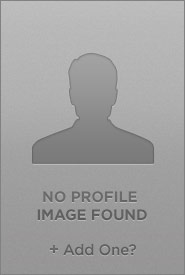
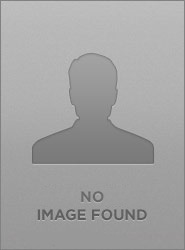
Css actors fini. Debut de requete backbone pour tmdb

diff --git a/js/models/actorModel.js b/js/models/actorModel.js
@@ -6,22 +6,27 @@
 define([
     'underscore',
     'backbone'
-],function(_, Backbone) {
+], function (_, Backbone) {
 
     var ActorModel = Backbone.Model.extend({
         urlRoot: "https://umovie.herokuapp.com/actors",
 
         parse(data) {
-          if (data.results) {
-              return data.results[0];
-          }else {
-              return data;
-          }
+            if (data.results) {
+                return data.results[0];
+            } else {
+                return data;
+            }
         },
 
+        shortenText: function (textToShortent, length) {
+            var newLenght = length || 200;
+            return `${textToShortent.slice(0, newLenght)} ... `;
 
-        defaults:{
-            "urlRoot" : 'https://umovie.herokuapp.com/actors/253584821',
+        },
+
+        defaults: {
+            "urlRoot": 'https://umovie.herokuapp.com/actors/253584821',
             "wrapperTyper": "artist",
             "artistType": "Artist",
             "artistName": "John Sawyer",
@@ -38,7 +43,7 @@ define([
 
 
             //Appel d'api externe
-            var dataBaseUrl =  "https://api.themoviedb.org/3";
+            var dataBaseUrl = "https://api.themoviedb.org/3";
             var dataBaseApiKey = "?api_key=8e2fb63d78986604185e4448ce8fbaad";
             var dataBaseImg = "https://image.tmdb.org/t/p/original";
             var actorName = "&query=" + that.attributes.artistName.split(' ').join('+');
@@ -46,49 +51,55 @@ define([
             $.ajax({
                 type: "GET",
                 url: dataBaseUrl + "/search/person" + dataBaseApiKey + actorName,
-                //url: dataBaseUrl + "/search/person" + dataBaseApiKey + "&query=" + "Brad Hall".split(' ').join('+'),
+                //url: dataBaseUrl + "/search/person" + dataBaseApiKey + "&query=" + "Brad Pitt".split(' ').join('+'),
                 dataType: 'jsonp',
                 jsonCallback: 'test',
                 contentType: 'application/json',
-                success: function(data) {
-
-
-                    var actorInfo = data.results[0];
-                    if(actorInfo) {
-
-                        var newImage;
-                        if(actorInfo.profile_path) {
-                            newImage = dataBaseImg + actorInfo.profile_path;
-                        }
-                        else {
-                            newImage = "url(../../img/actor/noProfile.png";
-                        }
-                        that.attributes.imgActor = newImage;
-
-
-                        if (actorInfo.id) {
-                            $.ajax({
-                                type: "GET",
-                                url: dataBaseUrl + "/person/" + actorInfo.id + dataBaseApiKey,
-                                dataType: "jsonp",
-                                jsonpCallback: 'test',
-                                contentType: 'application/json',
-                                success: function (Data) {
-                                    var newBiography = Data.biography;
-                                    that.attributes.biography = newBiography;
-
-                                }
-
-                            });
-                        }
-                    }
-                    that.attributes.firstAPIDone = true;
-                },
-                error: function() {
+                success: fetchInformationsFromPerson(data),
+                error: function () {
                     that.firstAPIDone = false;
 
                 }
             });
+
+
+        },
+
+        fetchInformationsFromPerson: function (data) {
+
+
+            var actorInfo = data.results[0];
+            if (actorInfo) {
+
+                var newImage;
+                if (actorInfo.profile_path) {
+                    newImage = dataBaseImg + actorInfo.profile_path;
+                }
+                else {
+                    newImage = "url(../../img/actor/noProfile.png";
+                }
+                that.attributes.imgActor = newImage;
+
+
+                if (actorInfo.id) {
+                    $.ajax({
+                        type: "GET",
+                        url: dataBaseUrl + "/person/" + actorInfo.id + dataBaseApiKey,
+                        dataType: "jsonp",
+                        jsonpCallback: 'test',
+                        contentType: 'application/json',
+                        success: function (data) {
+                            console.log(data);
+                            var newBiography = data.biography;
+                            that.attributes.biography = newBiography;
+                            that.set({shortenBio : that.shortenText(newBiography)});
+
+                        }
+
+                    });
+                }
+            }
+            that.attributes.firstAPIDone = true;
         }
 
     });

diff --git a/css/actors.css b/css/actors.css
@@ -1,30 +1,27 @@
-
 .actorThumbnail {
-    /*height: 200px;*/
-    /*margin: 2%  5% ;*/
+
+    max-height: 10%;
+    margin: 2%  5% ;
     display: flex;
     border-bottom: solid;
     border-bottom-color: darkgrey;
-    /*position: relative;*/
+
 }
 .actor-box {
     text-decoration:  none;
     color: inherit;
 }
 
-.thumbnailImg {
+.imageThumbnail {
 
-    height:90%;
-    width: auto;
+
     margin: 0 0 2% 0;
+    width: 25%;
+    height: 50%;
 
 }
 .descriptionThumbnail {
-    /*margin: 1% 0 0 5%;*/
-}
-
-.thumbnailNomArtist {
-
+    margin: 1% 0 0 5%;
 }
 
 .shortBio {
@@ -32,12 +29,54 @@
     min-height: 10%;
     max-height: 10%;
     position: relative;
+    font-size: 100%;
+}
 
-    /*white-space: nowrap;
-    overflow: hidden;
-    position: relative;
-    text-overflow: ellipsis;*/
+.genreActorThumbnail {
+    font-size: 100%;
+}
 
 
+@media screen and (min-width: 640px) {
+    .shortBio{
+        font-size: 150%;
+    }
+    .genreActorThumbnail {
+        font-size: 170%;
+    }
+    .thumbnailNomArtist {
+        font-size: 170%;
+    }
+    .imageThumbnail{
+        height:50%;
+        width: auto;
+    }
+}
 
+
+@media screen and (min-width: 960px) {
+
+    .actorThumbnail {
+
+
+    }
+    .thumbnailNomArtist {
+        font-size: 100%;
+    }
+
+    .imageThumbnail {
+
+
+    }
+    .descriptionThumbnail {
+    }
+
+    .shortBio {
+
+        font-size: 100%;
+    }
+
+    .genreActorThumbnail {
+        font-size: 100%;
+    }
 }

diff --git a/js/templates/actorThumbnail.html b/js/templates/actorThumbnail.html
@@ -1,14 +1,17 @@
+<div class="actorThumbnail">
+    <!--<img class="imageThumbnail" src="url({{imgActor}})"> -->
 
-    <div class="actorThumbnail">
-        <!--<img class="thumbnailImg" src="url({{imgActor}})"> -->
-       <img class="thumbnailImg" src="url(../../img/actor/noProfile.jpg">
-        <div class="descriptionThumbnail">
-            <a class="actor-box" href="#actor/{{artistId}}">
-            <h2 class="thumbnailNomArtist">{{artistName}}</h2>
-            </a>
-            <div >Artist genre : {{primaryGenreName}}</div>
-            <div class="shortBio">{{biography}}</div>
+        <img class="imageThumbnail" src="url(../../img/actor/noProfile.jpg">
 
-        </div>
+    <div class="descriptionThumbnail">
+
+        <h2 class="thumbnailNomArtist">
+            <a class="actor-box" href="#actor/{{artistId}}">{{artistName}}</a>
+        </h2>
+
+        <div class="genreActorThumbnail"> Genre : {{primaryGenreName}}</div>
+        <div class="shortBio">{{shortenBio}}</div>
 
     </div>
+
+</div>

diff --git a/js/models/tmdbModel.js b/js/models/tmdbModel.js
@@ -10,21 +10,18 @@ define([
         dataBaseUrl : "https://api.themoviedb.org/3",
         dataBaseApiKey : "?api_key=8e2fb63d78986604185e4448ce8fbaad",
         dataBaseImg : "https://image.tmdb.org/t/p/original",
-
         name: '',
-        addedParameters: 0,
-        url: function() {
-            this.addedParameters = 0;
-            let name = this.formatParameter(this.name);
+        urlRoot : '',
 
-        },
 
-        actorUrl : function() {
-            return "";
+
+        actorUrl : function(artistName) {
+            this.setName(artistName);
+            return this.dataBaseUrl + '/search/person' + this.dataBaseApiKey + this.name;
         },
 
         actorImageUrl : function() {
-            return "";
+            return ;
         },
 
         parse: function (response) {

diff --git a/js/views/actorView.js b/js/views/actorView.js
@@ -26,7 +26,7 @@ define([
             this.model.attributes.firstAPIDone = false;
             that = this;
 
-            this.listenTo(this.model.attributes.firstAPIDone, "change", that.render);
+            this.listenTo(this.model, "change", that.render);
             this.model.fetch({success: that.waitForRender});
             this.model.updateInformationsFromTMDB(that.waitForRender);
             that.render();

diff --git a/js/views/movieView.js b/js/views/movieView.js
@@ -42,9 +42,9 @@ define([
 
         generateSearchRequest: function () {
             return encodeURI(this.model.get('trackName') + ' trailer').replace(/%20/g, '+');
-        }
+        },
 
-        , render: function () {
+        render: function () {
             "use strict";
             // Encode the URI and replace the space by '+'
             var searchRequest = this.generateSearchRequest();
